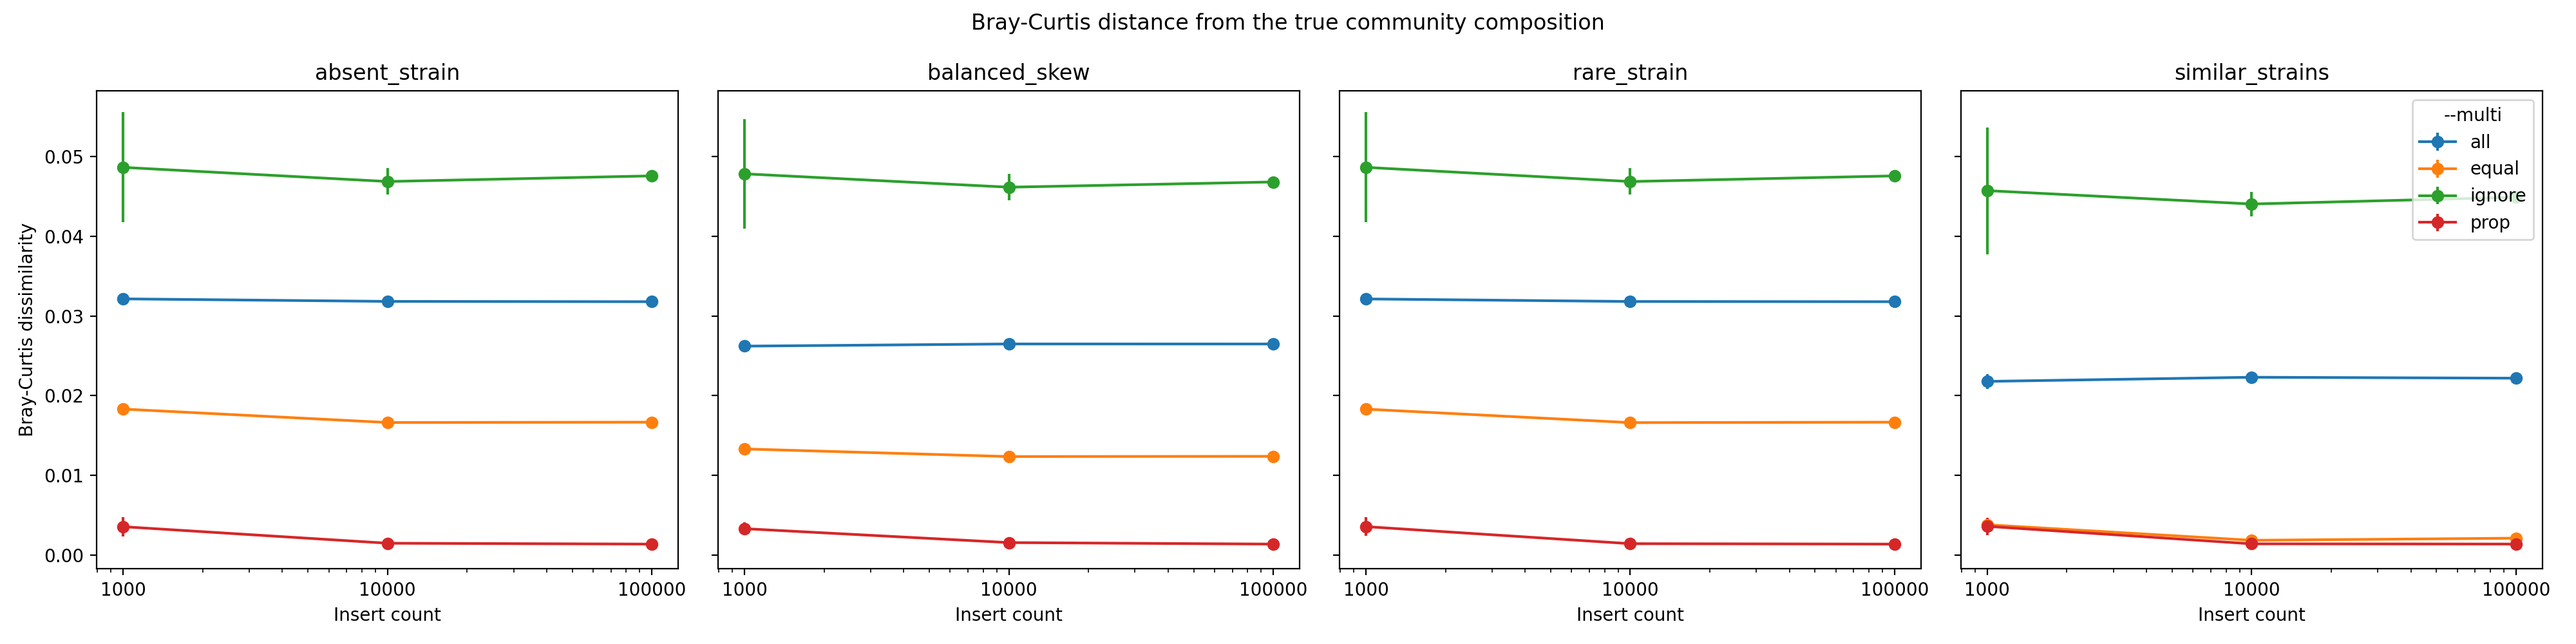
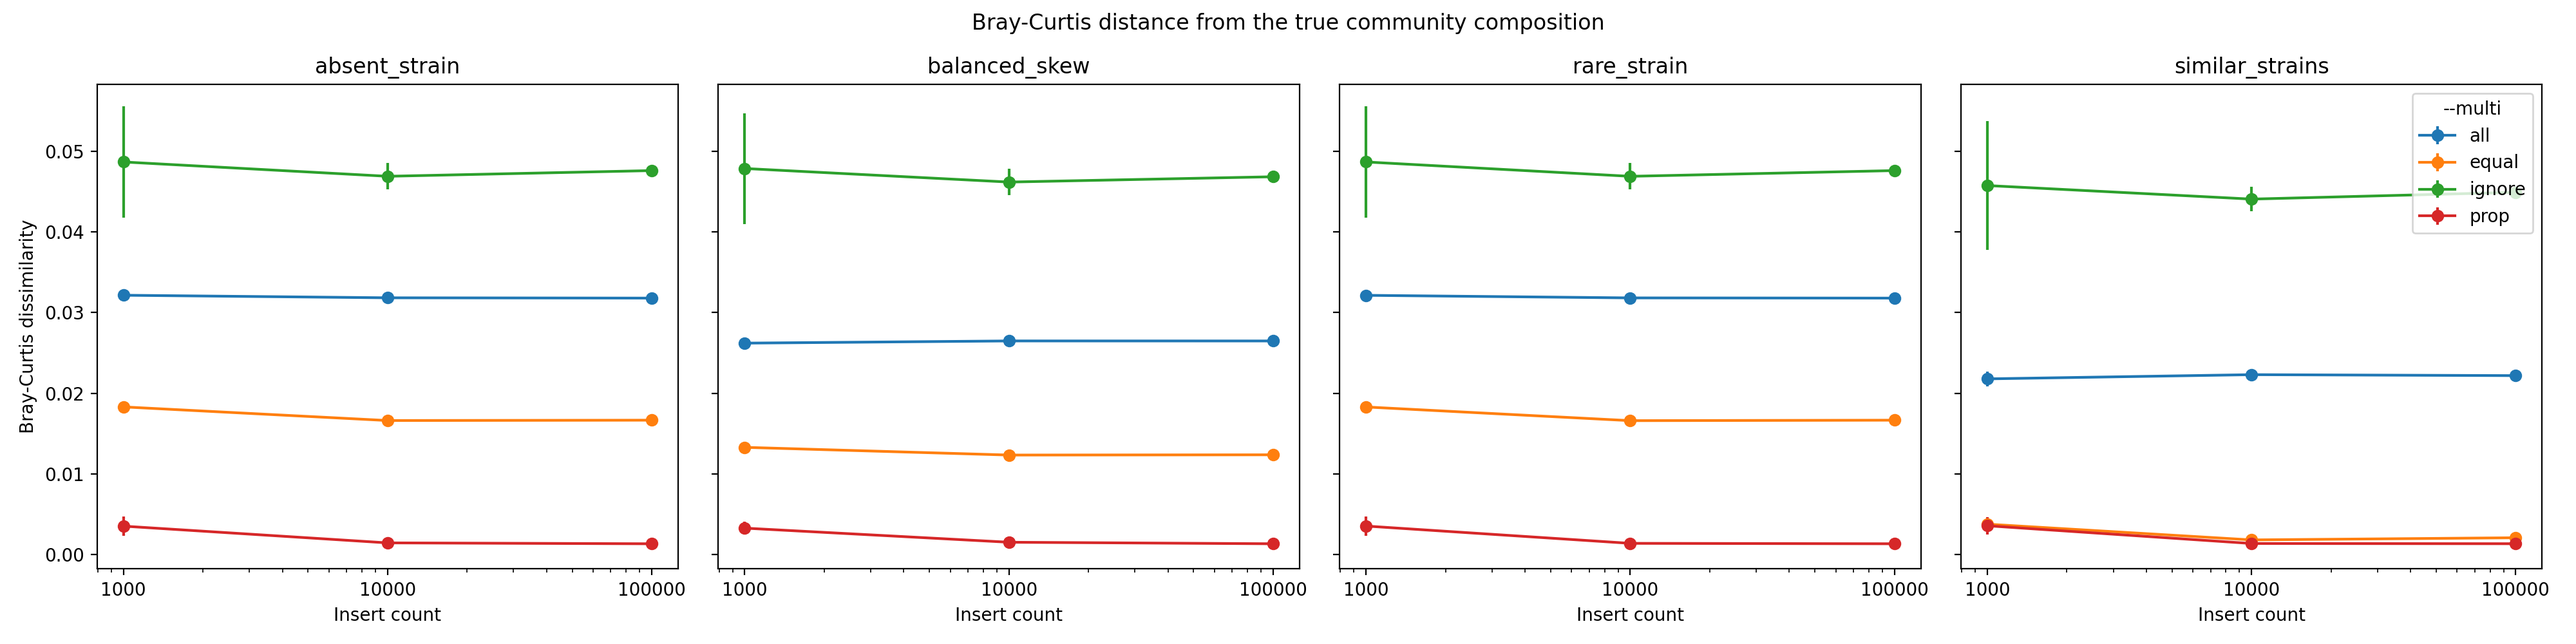
validation: update results for v1.2.0

diff --git a/docs/validation/profile_validation.md b/docs/validation/profile_validation.md
@@ -2,9 +2,9 @@
 
 > **Generated automatically by `validation/validate_profiles.py`. Do not edit numerical results manually.**
 
-- **msamtools version:** `1.1.3`
-- **Git commit:** `3fd8379a7189bcbd562b408b0322870075721a78`
-- **Validation date:** 2026-08-15
+- **msamtools version:** `1.2.0`
+- **Git commit:** `b21ac461a56b6630290c82266477699afbba545c`
+- **Validation date:** 2026-09-01
 
 ## Validation design
 
